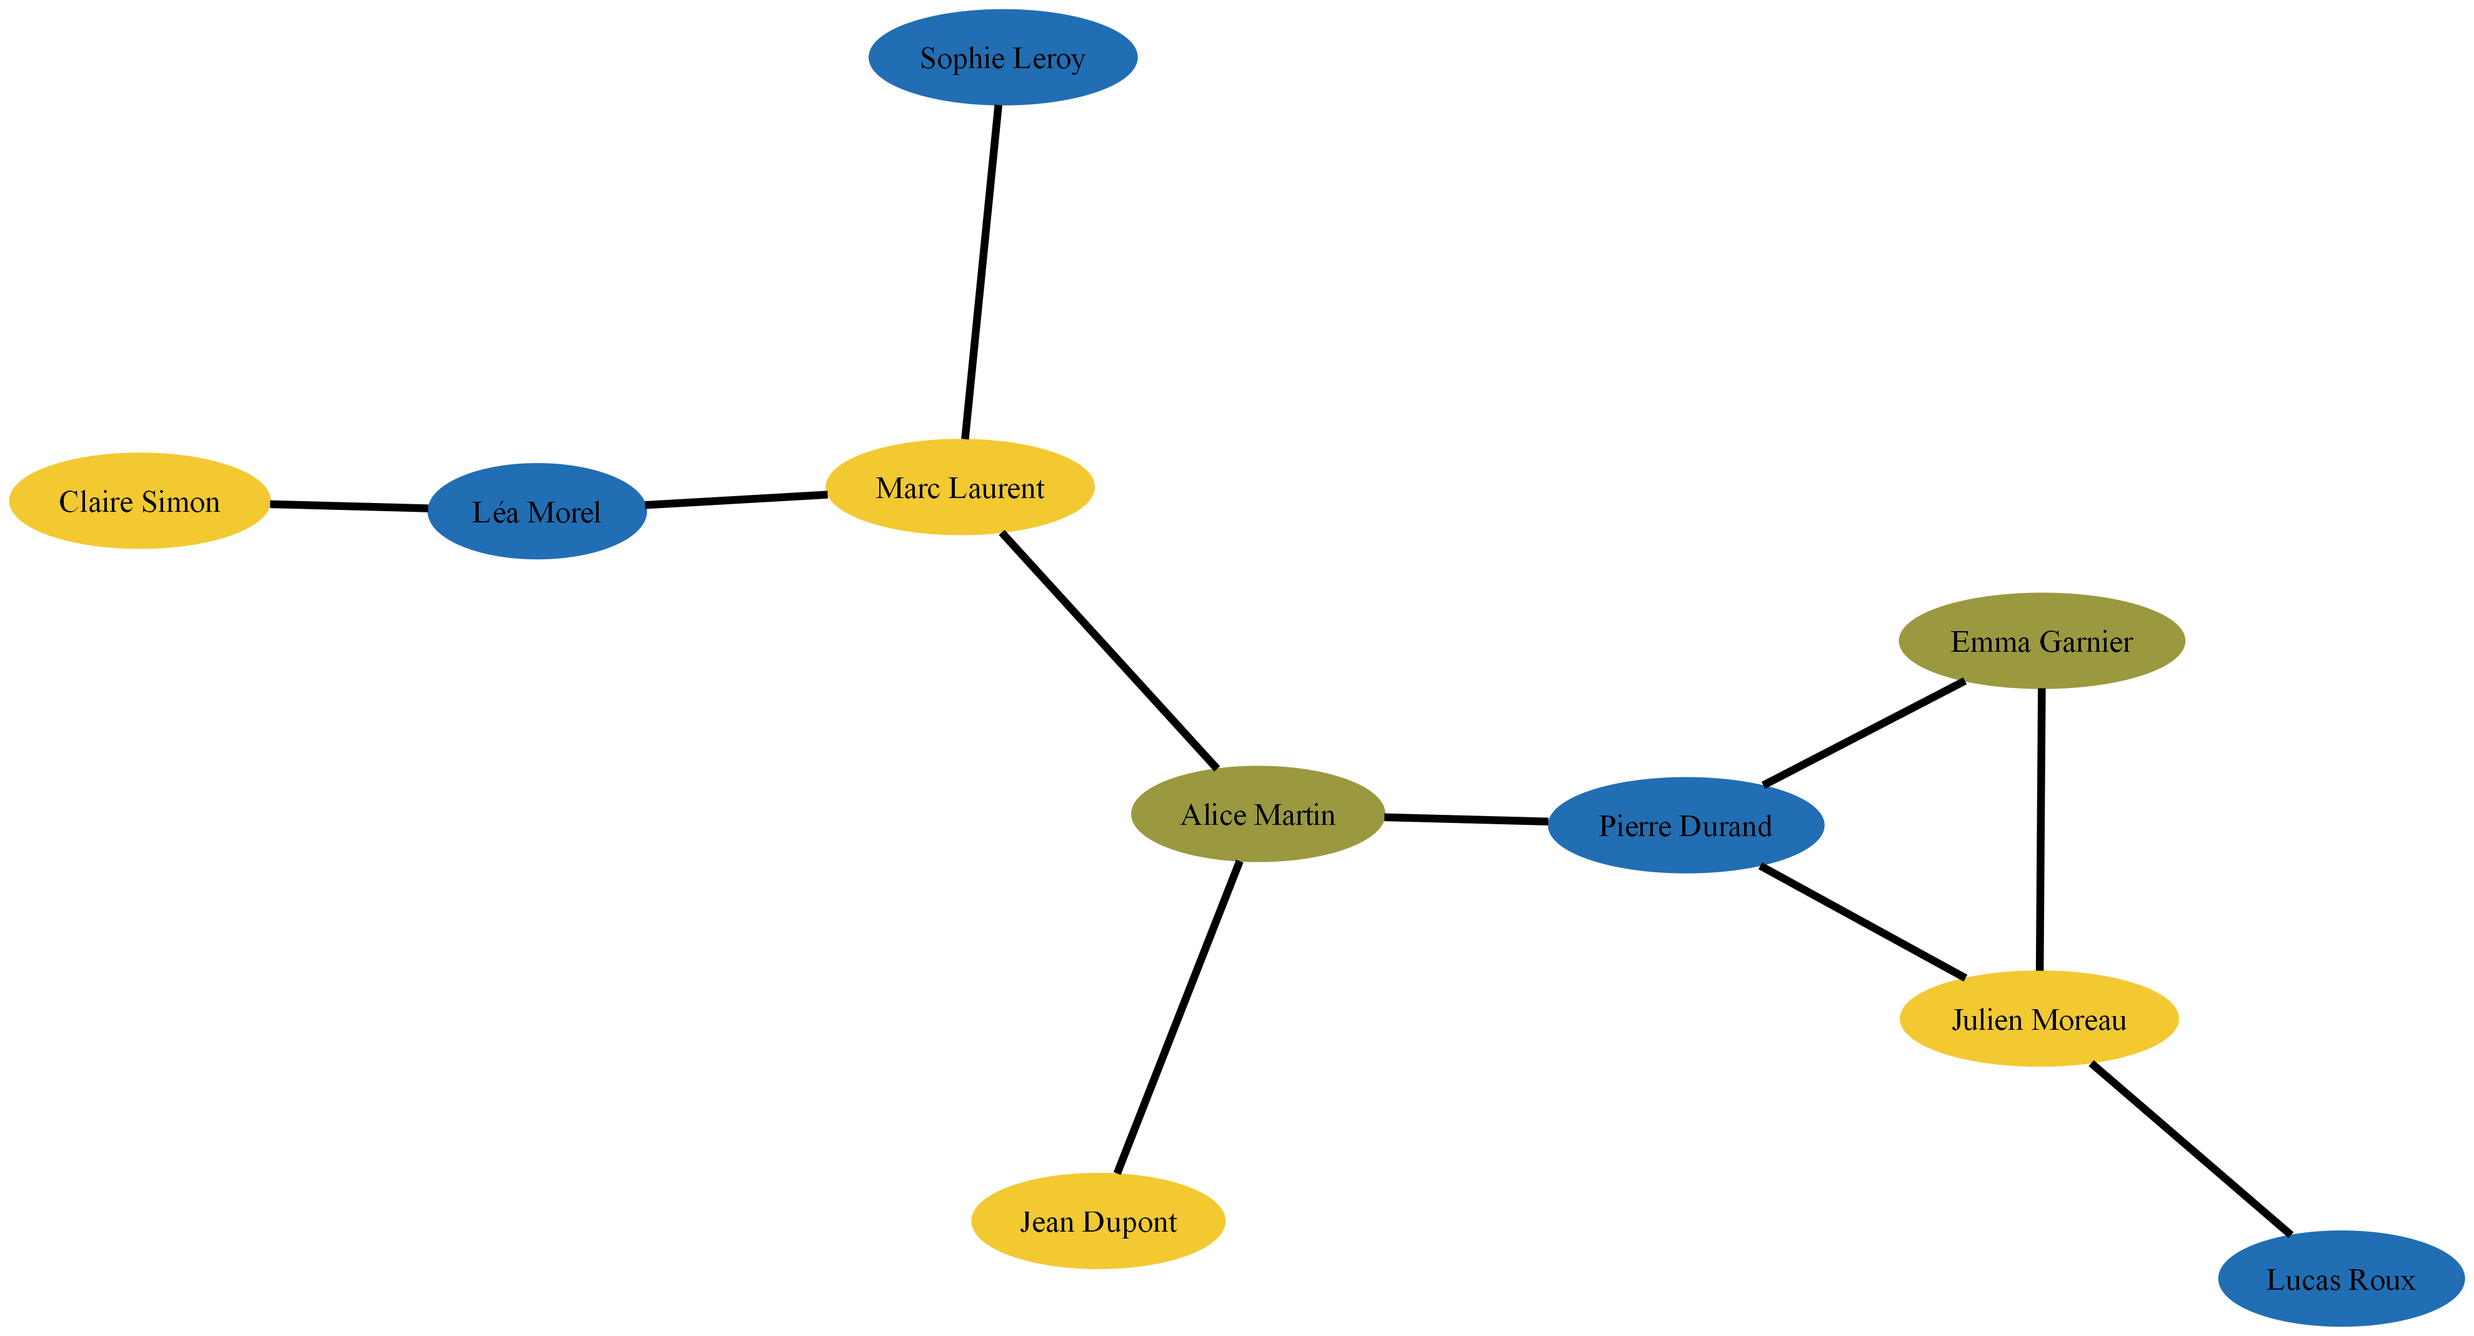
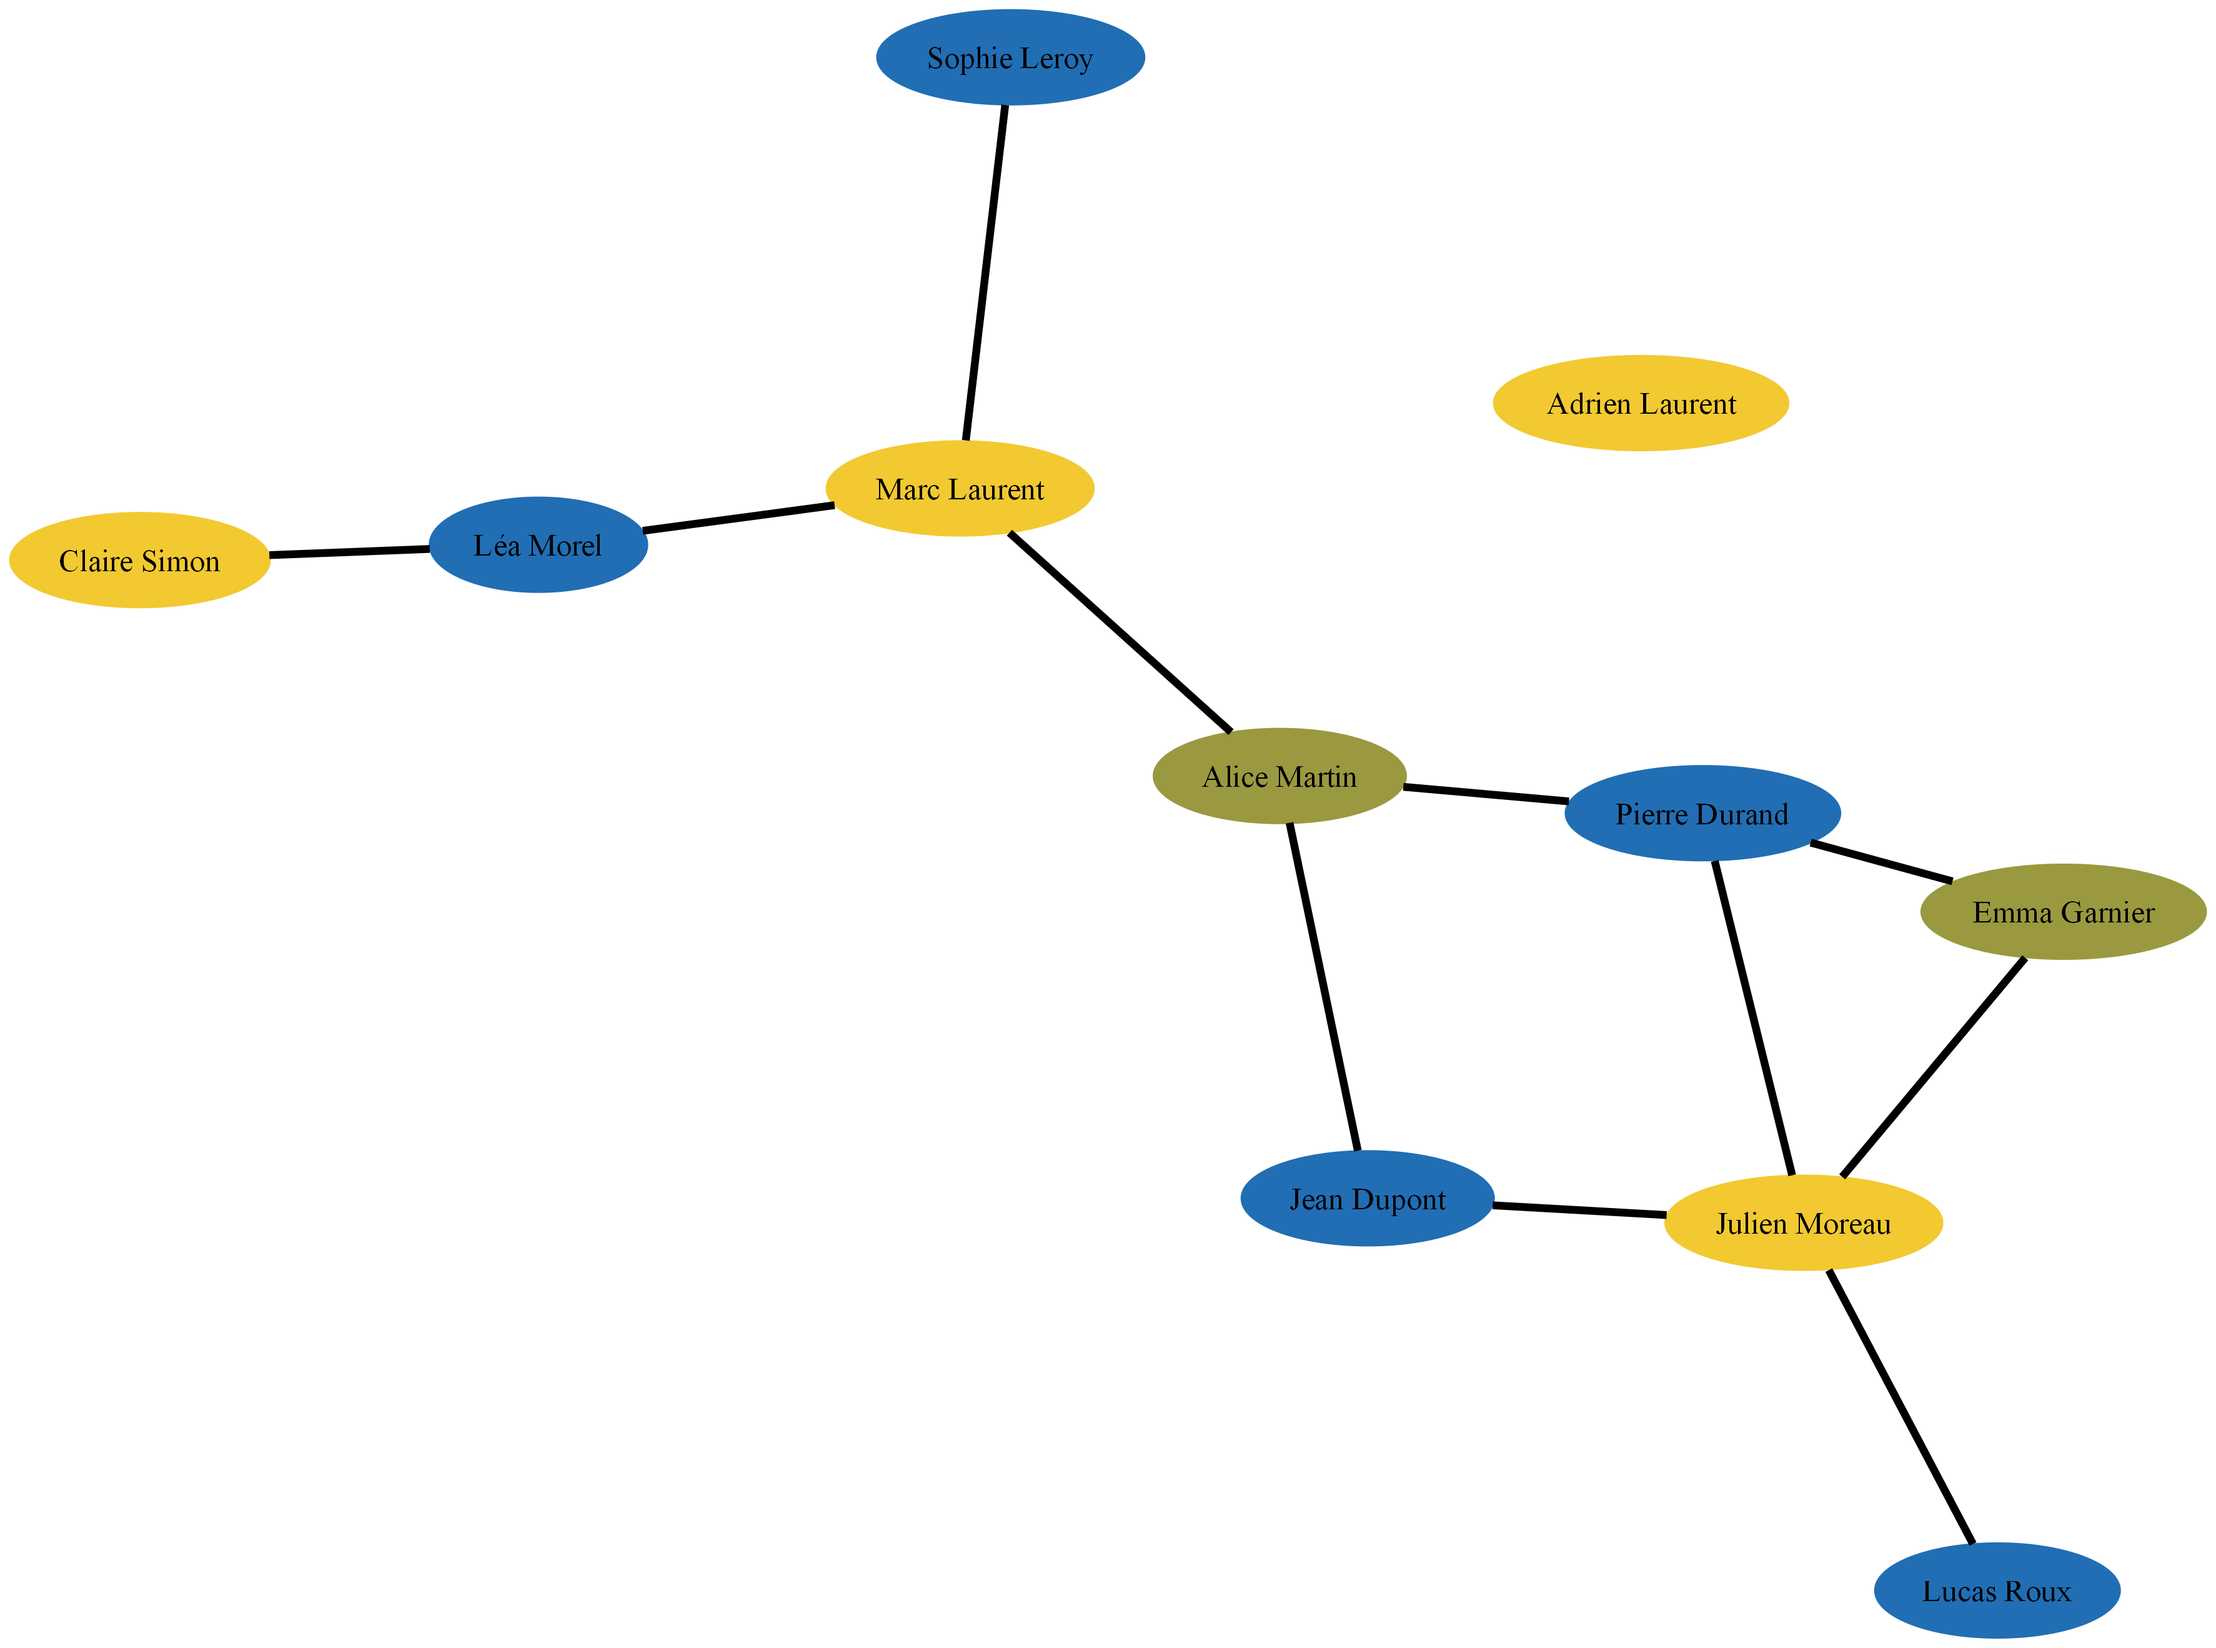
Welsh powell corrigé

diff --git a/Interface/AvisView.xaml b/Interface/AvisView.xaml
@@ -217,18 +217,6 @@
                        HorizontalAlignment="Center"
                        Grid.Column="1"/>
 
-            <!-- Bouton ➕ -->
-            <Button Content="➕"
-                    FontSize="16"
-                    Width="32"
-                    Height="32"
-                    Margin="0,0,10,0"
-                    HorizontalAlignment="Right"
-                    VerticalAlignment="Center"
-                    Background="Transparent"
-                    BorderThickness="0"
-                    Click="Ajouter_Click"
-                    Grid.Column="2"/>
 
         </Grid>
 

diff --git a/Interface/Register.xaml b/Interface/Register.xaml
@@ -194,6 +194,7 @@
                 <ComboBoxItem Content="Client"/>
                 <ComboBoxItem Content="Cuisinier"/>
                 <ComboBoxItem Content="Entreprise"/>
+                <ComboBoxItem Content="Client et Cuisinier"/>
             </ComboBox>
 
             <!-- Champ pour le nom -->

diff --git a/Interface/Pages.cs b/Interface/Pages.cs
@@ -140,9 +140,10 @@ namespace ProbSciANA.Interface
                 var Station = await Noeud<(int id, string nom)>.TrouverStationLaPlusProche(adresse); /// TODO : à revoir, car pas de station la plus proche dans le cas d'une adresse non trouvée
                                                                                                      /// recherche de la station la plus proche avec haversine
 
+
                 var nouvelUtilisateur = new Utilisateur(
-                    estClient: role == "Client",
-                    estCuisinier: role == "Cuisinier",
+                    estClient: role == "Client" || role == "Client et Cuisinier",
+                    estCuisinier: role == "Cuisinier" || role == "Client et Cuisinier",
                     nom,
                     prenom,
                     adresse,
@@ -158,6 +159,8 @@ namespace ProbSciANA.Interface
                 if (role == "Client")
                     NavigationService?.Navigate(new UserDashboardView());
                 else if (role == "Cuisinier")
+                    NavigationService?.Navigate(new CuisinierDashboardView());
+                else if (role == "Client et Cuisinier")
                     NavigationService?.Navigate(new CuisinierDashboardView());
             }
             catch (HttpRequestException ex)
@@ -884,10 +887,6 @@ namespace ProbSciANA.Interface
                 DataContext = selected;
             }
         }
-        private void Ajouter_Click(object sender, RoutedEventArgs e)
-        {
-            NavigationService?.Navigate(new AddPlat());
-        }
         private void AfficherClients_Click(object sender, RoutedEventArgs e)
         {
 
@@ -939,8 +938,6 @@ namespace ProbSciANA.Interface
             Requetes.RefreshAllLists();
             dataGridPlats.ItemsSource = null;
             dataGridPlats.ItemsSource = SessionManager.CurrentUser.Cuisines;
-            Console.WriteLine(SessionManager.CurrentUser.Cuisines.Count);
-            Console.WriteLine(SessionManager.CurrentUser.Cuisines[0].Plat.Composes.Count);
         }
         private void dataGridPlats_SelectionChanged(object sender, SelectionChangedEventArgs e)
         {

diff --git a/GrapheT.cs b/GrapheT.cs
@@ -946,6 +946,10 @@ namespace ProbSciANA
         {
             List<(Noeud<T> noeud, List<Noeud<T>> successeur)> listeAdjacenceTriée = TriListeAdjacence();
             int couleur = 0;
+            foreach (var noeud in couleurs.Keys)
+            {
+                couleurs[noeud] = 0; ///On réinitialise les couleurs à 0
+            }
             while (listeAdjacenceTriée.Count != 0)
             {
                 couleur++;
@@ -973,7 +977,6 @@ namespace ProbSciANA
                     listeAdjacenceTriée.Remove(s);
                 }
             }
-            Console.WriteLine("Moi");
             Console.WriteLine("Coloration du graphe avec " + couleur + " couleurs :");
             foreach (var noeud in couleurs.Keys)
             {
